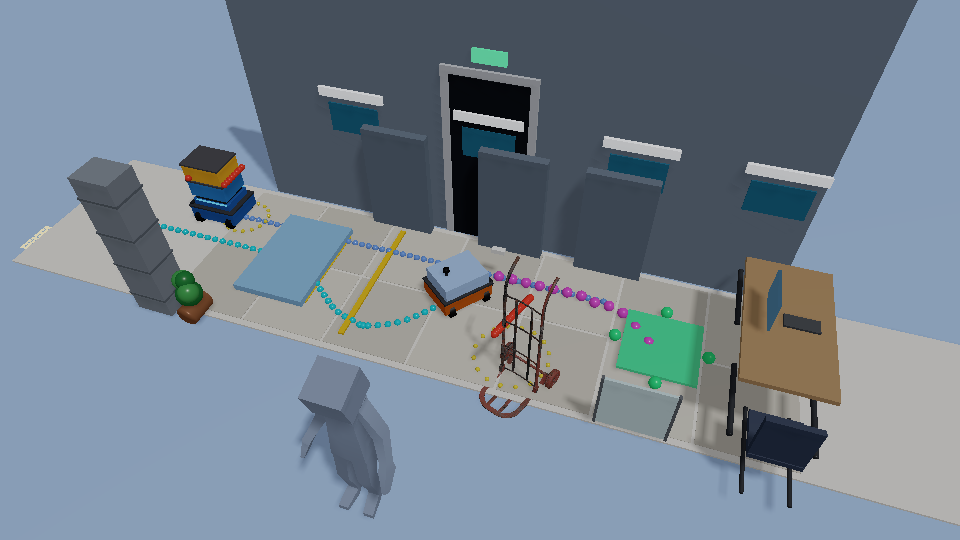
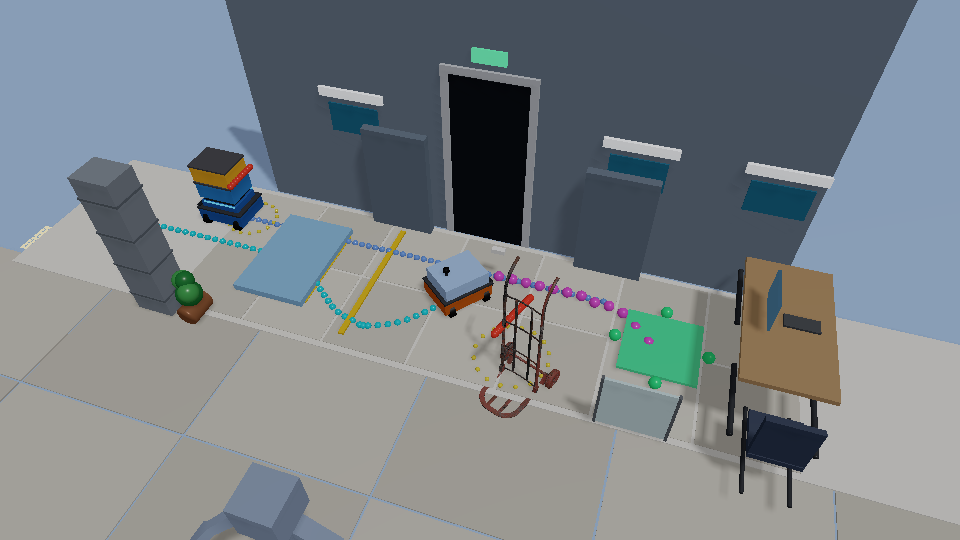
fix(showcase): keep the nav pedestrian out of the shelf and on the floor (#362)

Changed region(s): [[0.0, 0.4444, 1.0, 1.0], [0.4688, 0.2074, 0.5625, 0.4741], [0.1875, 0.2667, 0.2812, 0.4444]]

diff --git a/examples/90_showcase_captures/nav_world.rs b/examples/90_showcase_captures/nav_world.rs
@@ -28,14 +28,17 @@ pub(crate) const AGV_HALF_M: (f64, f64) = (0.25, 0.2);
 /// The second AGV's lane and speed. It keeps right, which still leaves part of
 /// it in the ego's straight path down the centre line.
 const ONCOMING_START: (f64, f64) = (5.9, -0.45);
-const ONCOMING_END: (f64, f64) = (-1.8, -0.45);
+/// The second AGV stops in its lane short of the shelf by the corridor end,
+/// which would otherwise hide it from the camera.
+const ONCOMING_END: (f64, f64) = (1.3, -0.45);
 const ONCOMING_SPEED_M_S: f64 = 0.42;
 const ONCOMING_DEPARTURE_S: f64 = 0.0;
 
 /// The pedestrian walks across the corridor from the far wall's doorway.
 pub(crate) const DOORWAY_X_M: f64 = 4.4;
 const PEDESTRIAN_START_Z_M: f64 = -1.35;
-const PEDESTRIAN_END_Z_M: f64 = 2.2;
+/// Past the bottom of the frame, on the floor drawn toward the camera.
+const PEDESTRIAN_END_Z_M: f64 = 4.2;
 const PEDESTRIAN_SPEED_M_S: f64 = 0.9;
 const PEDESTRIAN_DEPARTURE_S: f64 = 6.0;
 /// Radius of the circle bounding the pedestrian's body.
@@ -439,6 +442,30 @@ pub(crate) fn detect(points: &[Vec3], explained: impl Fn(f64, f64) -> bool) -> V
 }
 
 /// Renders the hand truck prop where its body stands.
+/// The floor on the camera's side of the corridor, where the pedestrian walks
+/// off to. The office render's own extension sits below the ground plane and
+/// does not show, so the pedestrian appeared to stand in the void.
+pub(crate) fn push_near_floor(scene: &mut RenderScene) {
+    for (index, x_m) in [-0.05, 1.75, 3.55, 5.35, 7.15, 8.95]
+        .into_iter()
+        .enumerate()
+    {
+        for (row, z_m) in [1.55, 2.95, 4.35].into_iter().enumerate() {
+            let tone = if (index + row) % 2 == 0 {
+                [0.80, 0.78, 0.73, 1.0]
+            } else {
+                [0.74, 0.72, 0.67, 1.0]
+            };
+            super::media::push_box(
+                scene,
+                Vec3::new(x_m, 0.006, z_m),
+                Vec3::new(1.78, 0.012, 1.38),
+                tone,
+            );
+        }
+    }
+}
+
 pub(crate) fn push_hand_truck(scene: &mut RenderScene) {
     let (x, z, heading) = HAND_TRUCK;
     scene.items.push(RenderScene::item_from_visual(

diff --git a/examples/90_showcase_captures/office.rs b/examples/90_showcase_captures/office.rs
@@ -809,7 +809,12 @@ pub(crate) fn push_doorway(scene: &mut RenderScene, x_m: f64) {
     scene.items.retain(|item| {
         // Shelving, windows and light fittings on that stretch of wall; the
         // wall itself is wider than a meter and stays.
-        let small_box = matches!(item.shape, VisualShape::Box { size_m } if size_m.x < 1.0);
+        // Box items carry their extent in the transform's scale; `size_m` is
+        // the unit box.
+        let small_box = matches!(
+            item.shape,
+            VisualShape::Box { size_m } if size_m.x * item.transform.scale.x < 1.0
+        );
         let at = item.transform.translation;
         !(small_box && (at.x - x_m).abs() < 0.5 && at.z < -0.85 && at.y > 0.3)
     });

diff --git a/examples/90_showcase_captures/nav.rs b/examples/90_showcase_captures/nav.rs
@@ -384,6 +384,7 @@ fn rollout(repo_root: &Path, capture: bool, expected_steps: Option<u64>) -> Resu
             );
             Corridor::hide_bodies(&mut scene);
             office::push_doorway(&mut scene, super::nav_world::DOORWAY_X_M);
+            super::nav_world::push_near_floor(&mut scene);
             push_hand_truck(&mut scene);
             super::nav_world::push_totes(&mut scene, corridor.oncoming.pose);
             corridor.push_pedestrian(&mut scene)?;

diff --git a/CHANGELOG.md b/CHANGELOG.md
@@ -757,6 +757,14 @@ All notable changes to Robot Native Engine are documented in this file.
   G1's own kinematic chain, and a gauge's lamp turns green only when the
   simulated shoulder-to-hand line points within 5° of it (measured 1.5°,
   0.8° and 0.5°). The gauges are drawn by the renderer only.
+- In the Navigation showcase the pedestrian walked out of the doorway through
+  a shelf panel, then stood in the void past the floor edge for the rest of
+  the clip; the second AGV drove off the end of the corridor behind a shelf.
+  The doorway now clears the panel (its size check read the unit box size,
+  not the scaled one), the floor on the camera side is drawn above the ground
+  plane so the pedestrian walks off frame across it, and the second AGV stops
+  in its lane at x = 1.3 m. The orange AGV's run and every measured gap are
+  unchanged.
 - `Slam2d` recorded raw odometry as the measurement of every sequential edge,
   so each loop-closure re-optimization pulled the trajectory back toward its
   drift between closures, and a later merge undid the scan matcher's
